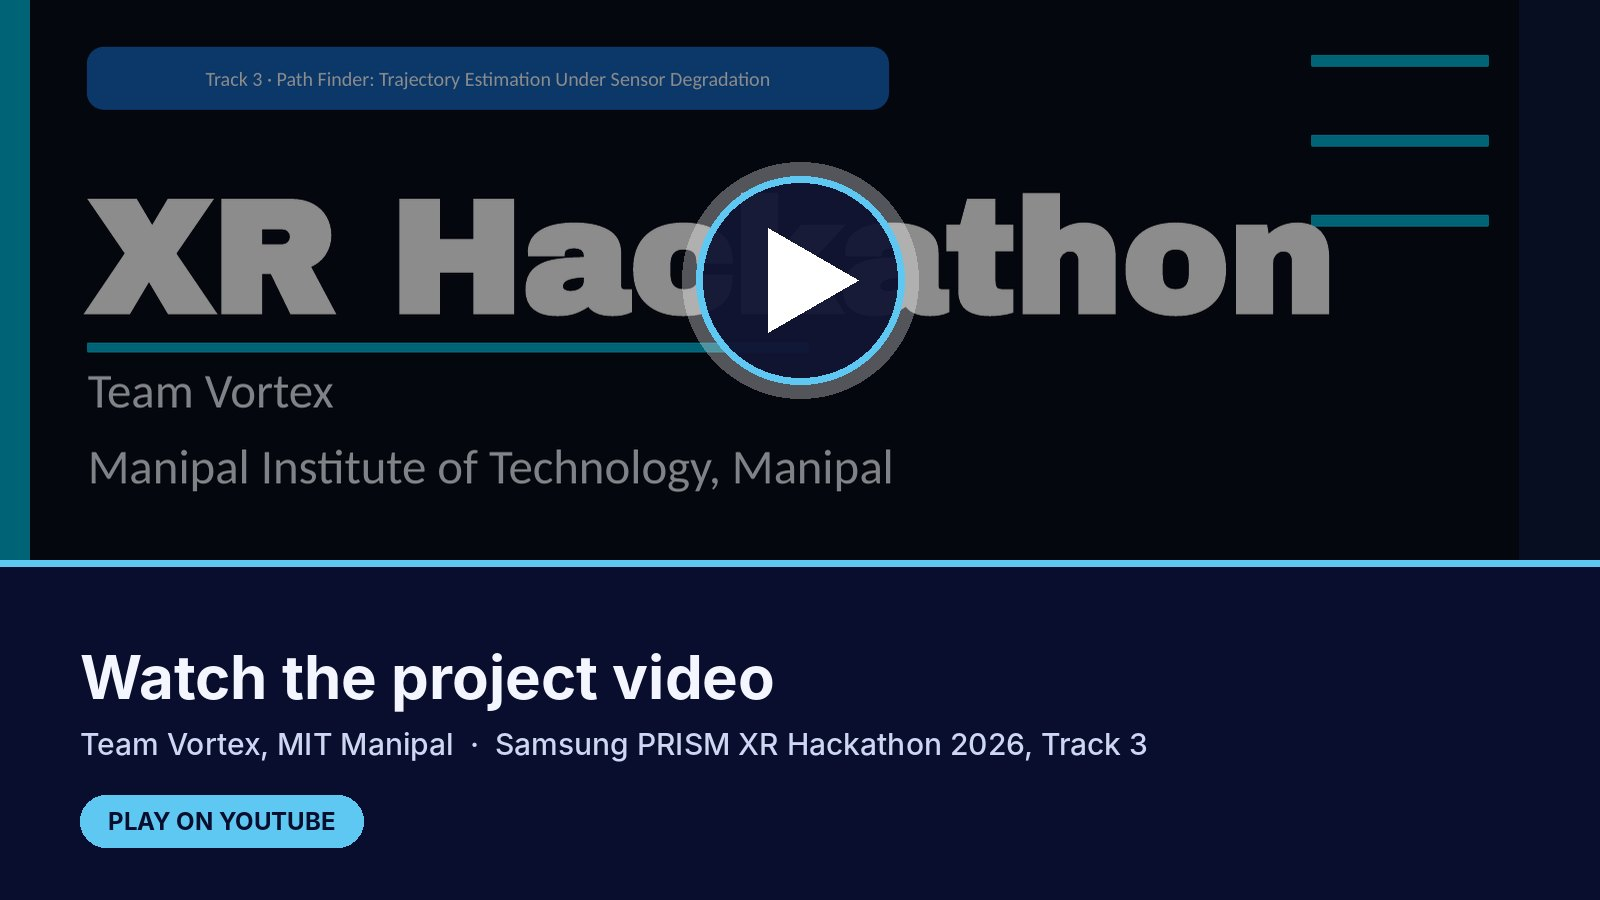
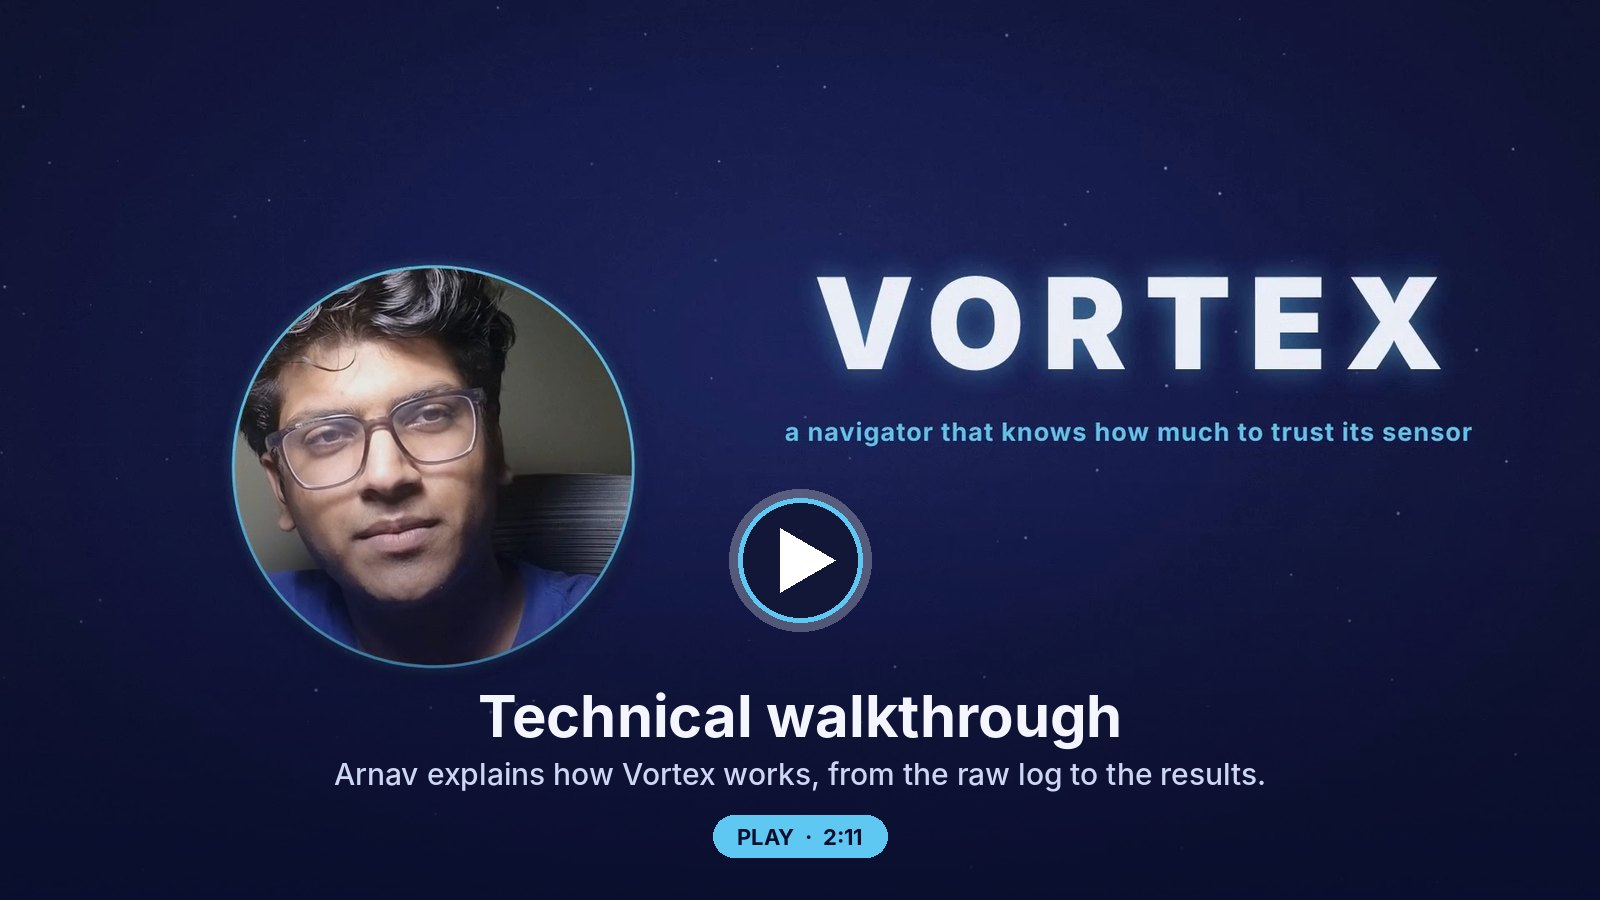
README: matching video cards, fewer links
- Technical walkthrough and Pip film shown side by side at the same size
  (both 1600x900, one template): real frame from the walkthrough render,
  play pill with each video's length.
- Removed the duplicate caption links and the MP4 link under the cards,
  and the deck line in Documentation (the deck has its own section).
- Documentation links Docs/video/README.md.
- AI disclosure: Claude's role in the walkthrough's HyperFrames animation
  and edit pipeline; Arnav recorded and presents the walkthrough.

Claude-Session: https://claude.ai/code/session_01TjqR7EuejW3cCyparYVeud

diff --git a/README.md b/README.md
@@ -20,17 +20,12 @@ using nothing but that recording's gyroscope and accelerometer.</p>
 
 <br><br>
 
-<a href="https://youtu.be/l0N_V60-v3E"><img src="assets/project-video-card.jpg" alt="Play the project video on YouTube: Team Vortex, MIT Manipal, Samsung PRISM XR Hackathon 2026, Track 3." width="88%"></a>
-
-<sub><a href="https://youtu.be/l0N_V60-v3E"><b>Watch the project video on YouTube</b></a></sub>
-
-<br><br>
-
-<a href="https://www.youtube.com/watch?v=bPd4NMj70VY"><img src="assets/vortex-film-poster.jpg" alt="Play the 60-second animated film on YouTube: Pip, a little drone whose flight log is about to fall apart." width="56%"></a>
-
-<sub>The 60-second animated film: <a href="https://www.youtube.com/watch?v=bPd4NMj70VY">YouTube</a> · <a href="assets/vortex-film.mp4">MP4 download (21 MB)</a></sub>
-
-<br><br>
+<table>
+<tr>
+<td width="50%"><a href="https://youtu.be/l0N_V60-v3E"><img src="assets/project-video-card.jpg" alt="Play the technical walkthrough on YouTube (2:11): Arnav explains how Vortex works, from the raw log to the results." width="100%"></a></td>
+<td width="50%"><a href="https://www.youtube.com/watch?v=bPd4NMj70VY"><img src="assets/vortex-film-poster.jpg" alt="Play the Pip film on YouTube (1:00): Pip, a little drone whose flight log is about to fall apart." width="100%"></a></td>
+</tr>
+</table>
 
 [The problem](#the-problem) · [How it works](#how-vortex-works) · [Results](#results) · [Runtime and memory](#runtime-and-memory) · [Running Vortex](#running-vortex) · [Deck](#the-deck) · [Scope and limits](#scope-and-limits) · [Team and AI disclosure](#team-and-ai-disclosure)
 
@@ -405,8 +400,8 @@ Candidates that did not pass their rule stay switched off in the [reference filt
 
 <br>
 
-- [Project deck](Docs/deck/ManipalInstituteofTechnology_Vortex.pdf) ([PowerPoint](Docs/deck/ManipalInstituteofTechnology_Vortex.pptx))
 - [Method](Docs/METHOD.md): the shipped v1.0 estimator, function by function
+- [Technical video](Docs/video/README.md): how the walkthrough was made, its sources and credits
 - [Decision log](Docs/TRACK3_PLAN.md): every registered rule and its verdict
 - [Verified figures](Docs/NUMBERS.md): every quotable number, with source tags
 - [Generated results](Docs/RESULTS.md): clean and degraded EuRoC metrics, constant-pose baseline, ablations
@@ -429,7 +424,7 @@ Arnav conceived the project and owned every decision in it:
 - **Rules.** He set the rules every change had to follow. Features are switches that are off by default, and pass/fail rules are committed before held-out data is touched. Ground truth is used only for scoring, and every number comes from a generated ledger.
 - **Testing.** He decided which data was for tuning and which was held out, and ran the datasets and the test suite on his own machine.
 - **Oversight.** He planned and assigned every task, reviewed each one, and approved and merged every change into this repository.
-- **Film.** He chose the film's story and directed its production.
+- **Videos.** He chose the film's story and directed its production, and he recorded and presents the technical walkthrough himself.
 
 AI tools assisted under that direction, and Arnav oversaw every task they took on:
 
@@ -440,7 +435,7 @@ AI tools assisted under that direction, and Arnav oversaw every task they took o
 | ChatGPT (OpenAI) | Technical review and drafting for the deck and script |
 | Google Flow | AI animation for the film |
 | ElevenLabs | AI voice for the film |
-| Claude | Writing support for the film |
+| Claude | Writing support for the film, and the code-built animation and editing pipeline of the technical walkthrough (HyperFrames), around Arnav's own camera recordings |
 
 Every approach, decision rule and ship decision was Arnav's call.
 
